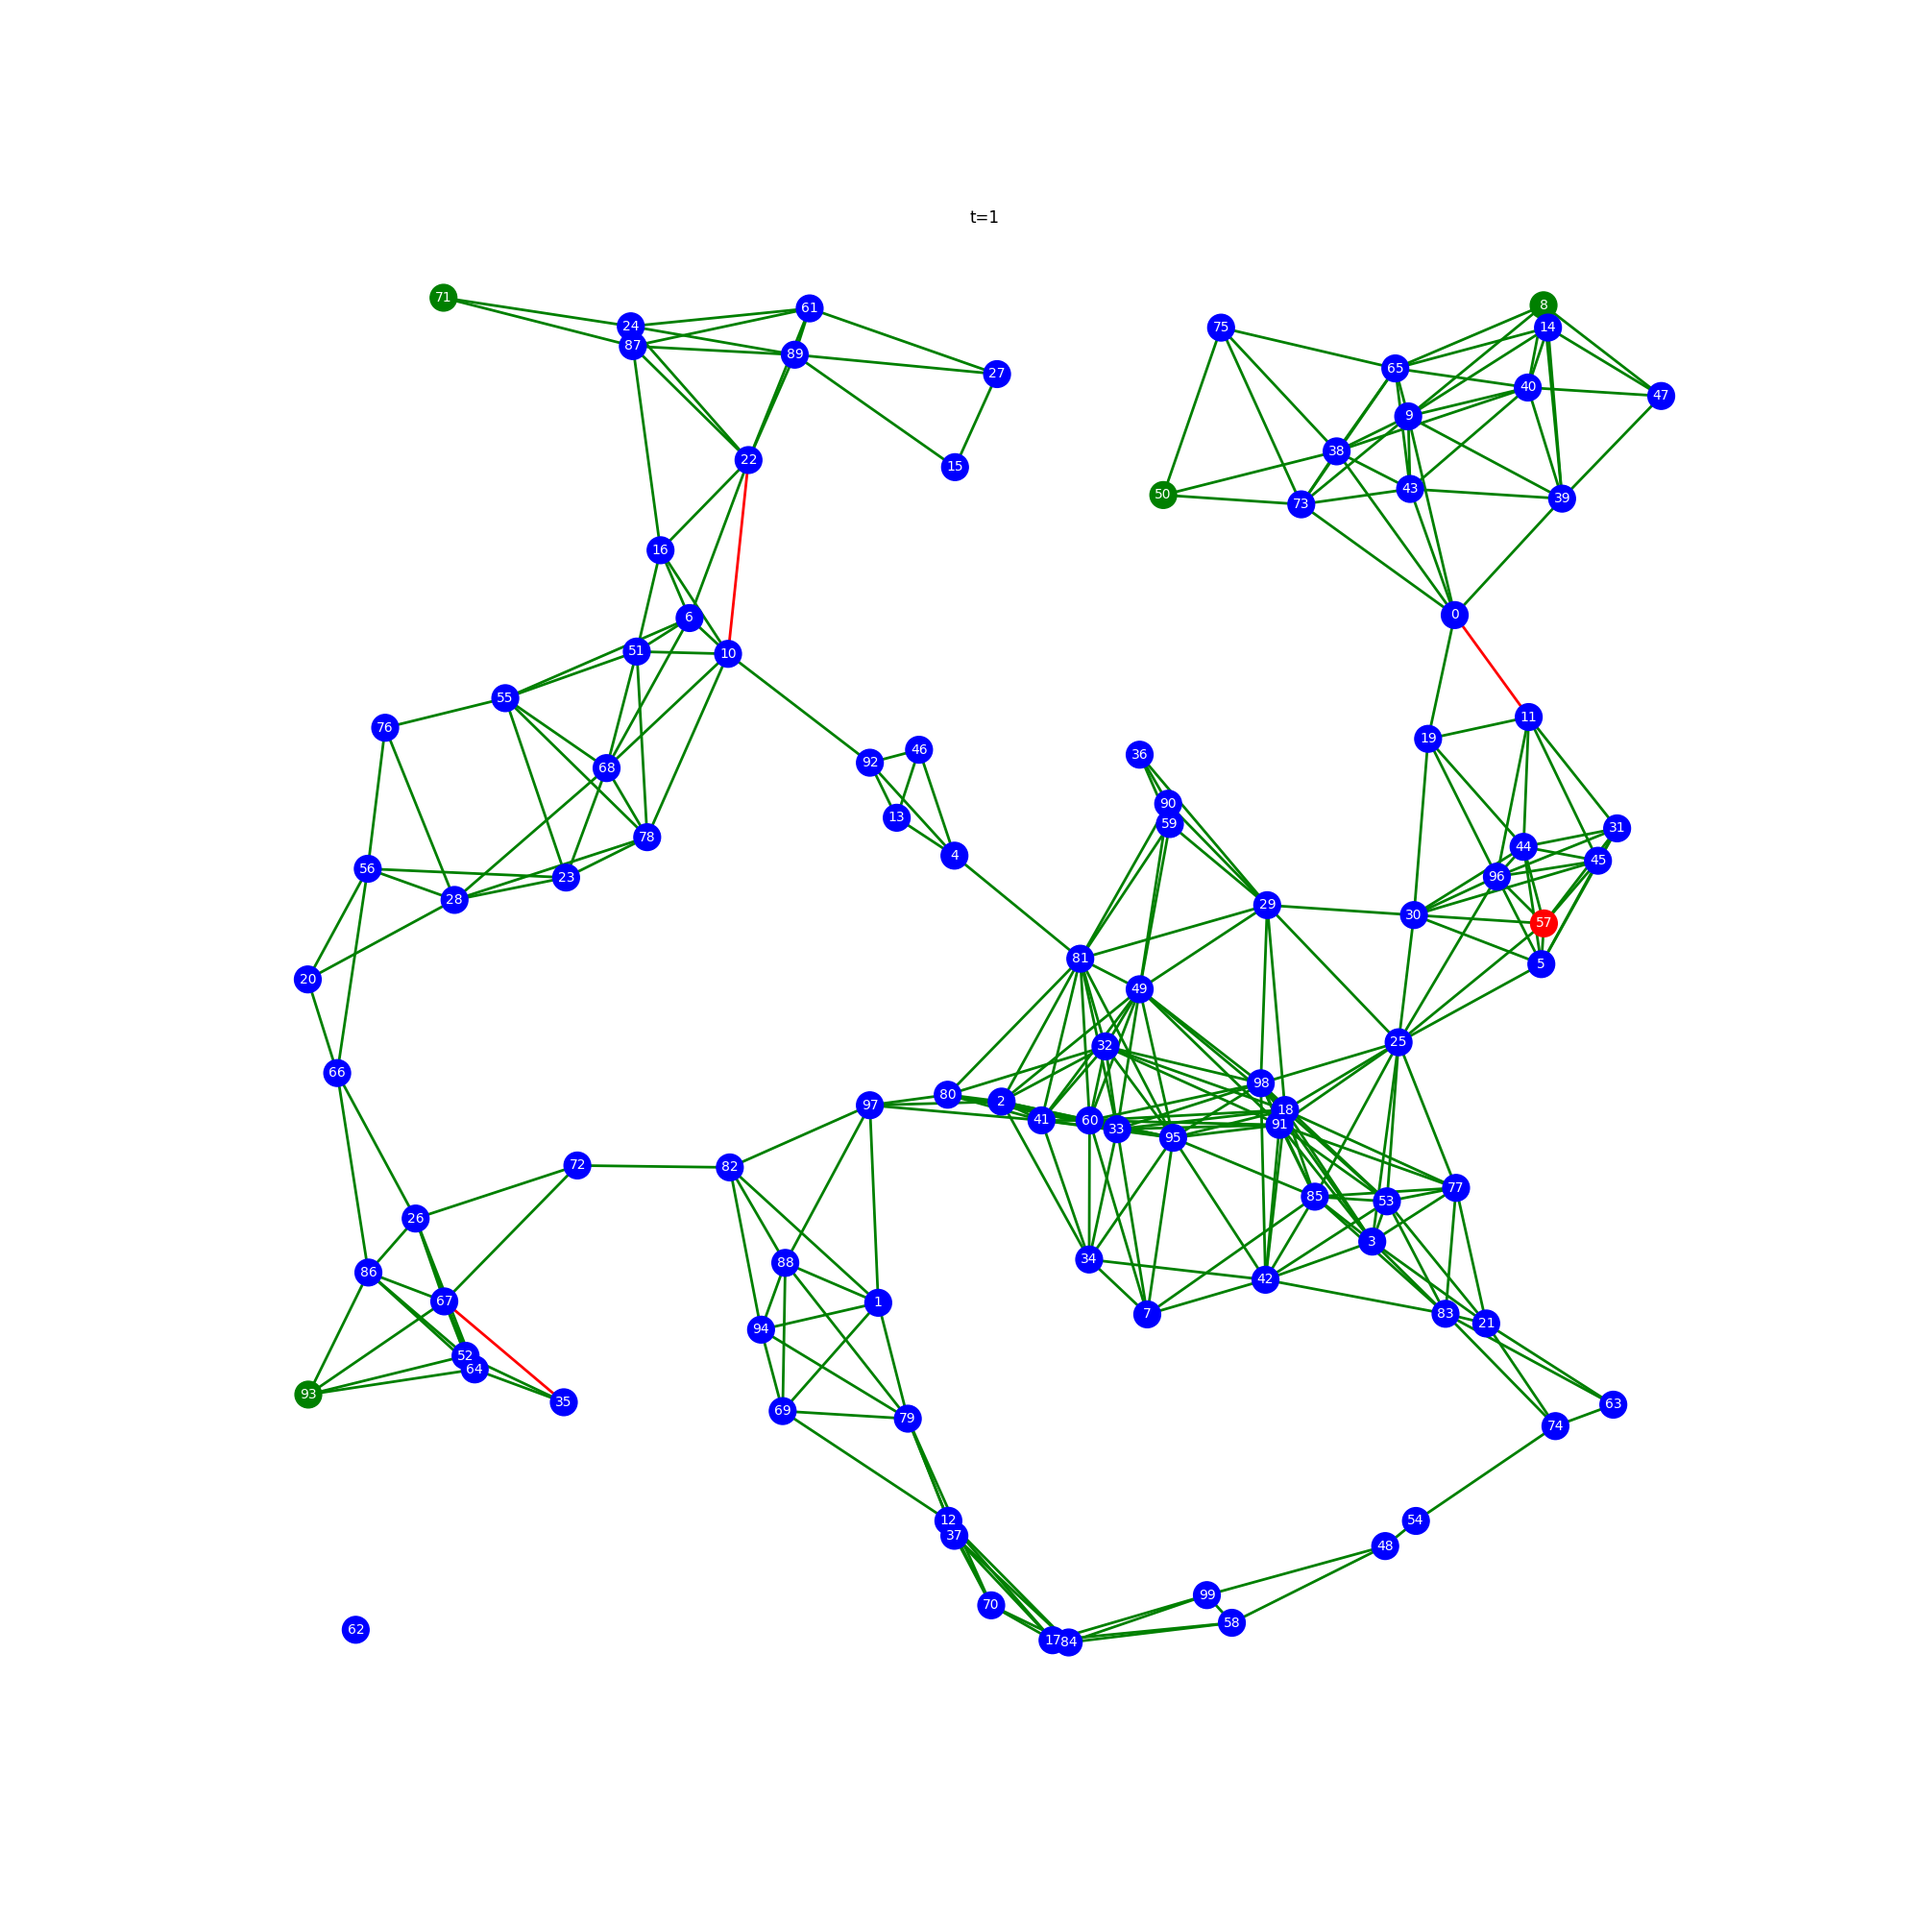
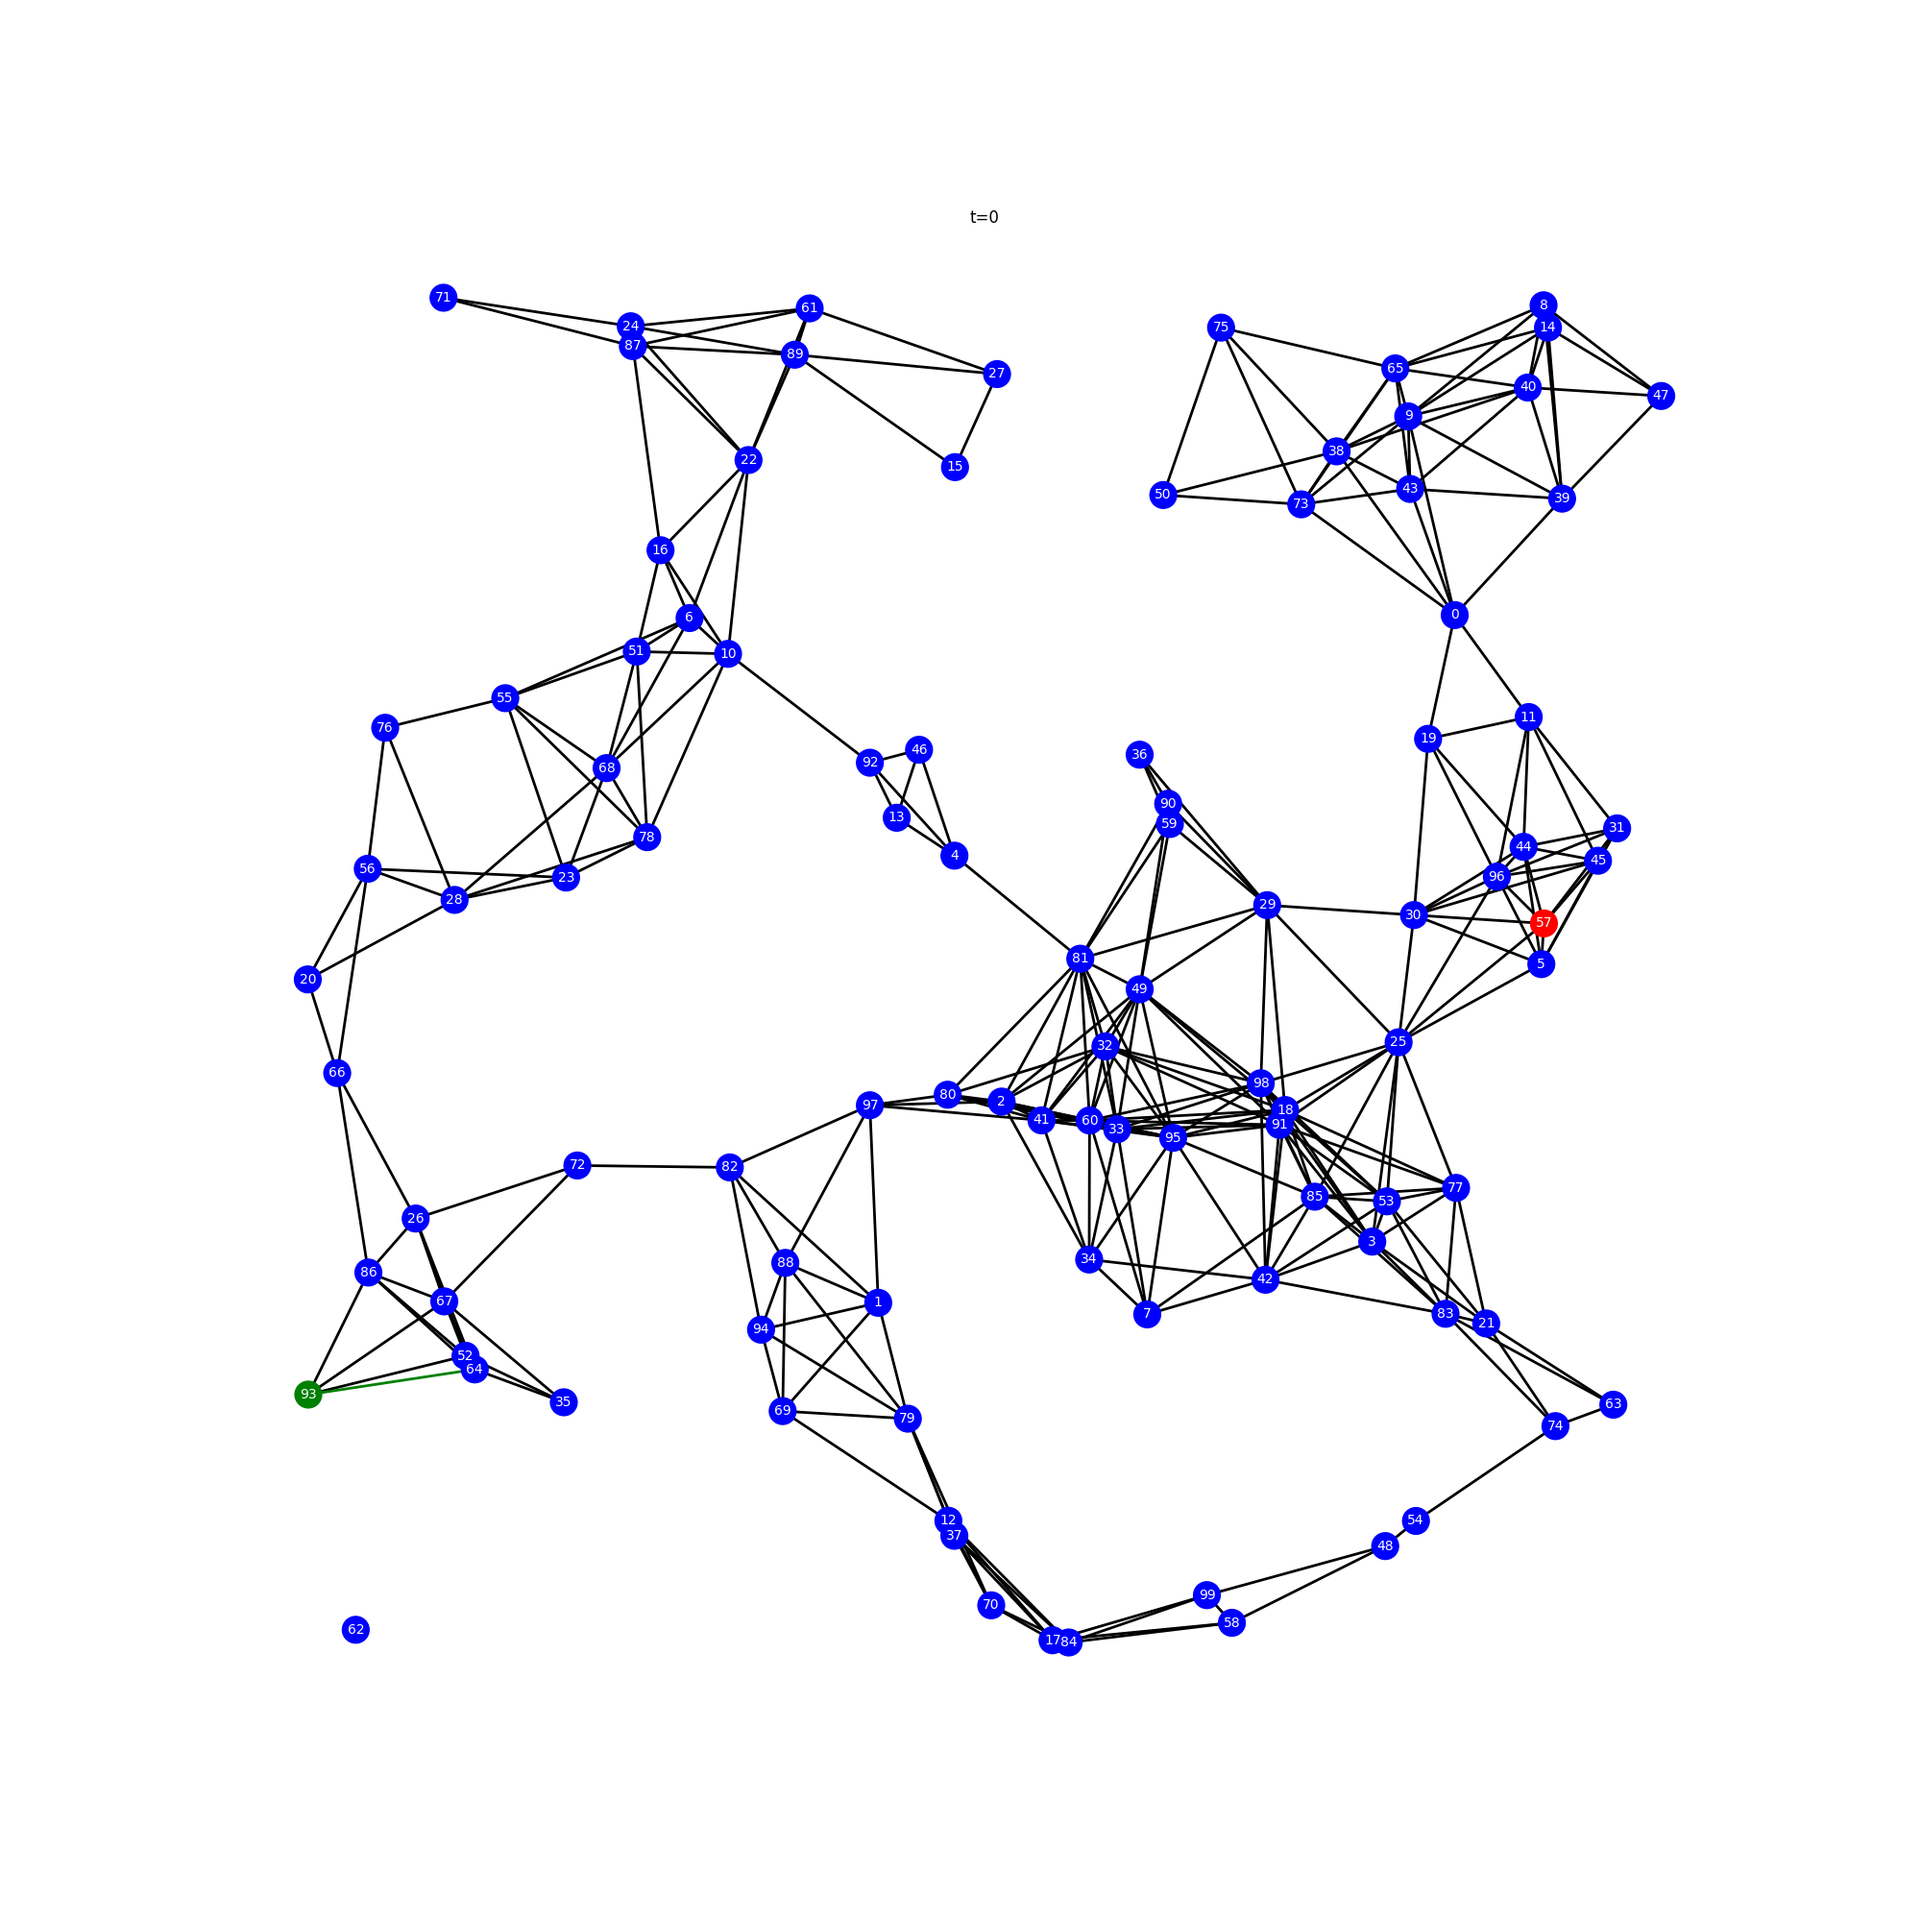
次回，コンテンツキャッシュ機能の実装予定

diff --git a/Main.py b/Main.py
@@ -74,10 +74,14 @@ def get_eges_color(edges, edges_communication):
   edges_color = []
 
   for edge_from, edge_to in edges:
-    color = "green"
-    for edge_c_from, edge_c_to in edges_communication:
+    color = "black"
+    for edge_c_from, edge_c_to, packet_type in edges_communication:
       if edge_from is edge_c_from and edge_to is edge_c_to:
-        color = "red"
+        if packet_type == "<class 'con.packet.interest_packet'>":
+          color = "green"
+        else:
+          color = "red"
+
     edges_color.append(color)
 
   return edges_color
@@ -99,19 +103,19 @@ def main():
   have_content_node = random.randint(0, MAX_NODES)
   nodes[have_content_node].content_store.append(content(content_id="www.google.com/logo.png", data_size=10000))
   want_content_node = random.randint(0, MAX_NODES)
-  nodes[want_content_node].set_packet("www.google.com/logo.png", nodes[have_content_node].position)
-  nodes[want_content_node].request_content_id = "www.google.com/logo.png"
-  want_content_node = 50
-  nodes[want_content_node].set_packet("www.google.com/logo.png", nodes[have_content_node].position)
-  nodes[want_content_node].request_content_id = "www.google.com/logo.png"
-  want_content_node = 71
-  nodes[want_content_node].set_packet("www.google.com/logo.png", nodes[have_content_node].position)
-  nodes[want_content_node].request_content_id = "www.google.com/logo.png"
+  # nodes[want_content_node].set_packet("www.google.com/logo.png", nodes[have_content_node].position)
+  # nodes[want_content_node].request_content_id = "www.google.com/logo.png"
+  # want_content_node = 50
+  # nodes[want_content_node].set_packet("www.google.com/logo.png", nodes[have_content_node].position)
+  # nodes[want_content_node].request_content_id = "www.google.com/logo.png"
+  # want_content_node = 71
+  # nodes[want_content_node].set_packet("www.google.com/logo.png", nodes[have_content_node].position)
+  # nodes[want_content_node].request_content_id = "www.google.com/logo.png"
   want_content_node = 93
   nodes[want_content_node].set_packet("www.google.com/logo.png", nodes[have_content_node].position)
   nodes[want_content_node].request_content_id = "www.google.com/logo.png"
 
-  fig = plt.figure(figsize=(20, 20))
+  fig = plt.figure(figsize=(10, 10))
 
   def animate(i):
     plt.cla()
@@ -124,6 +128,10 @@ def main():
     G.add_edges_from(nodes_link)
 
     loop_count = node.que.qsize()
+    if loop_count == 0:
+      nodes[want_content_node].set_packet("www.google.com/logo.png", nodes[have_content_node].position)
+      nodes[want_content_node].request_content_id = "www.google.com/logo.png"
+      loop_count = node.que.qsize()
 
     edges_communication = []
     for c in range(loop_count):
@@ -133,9 +141,10 @@ def main():
       for n in _node.select_next_node:
         print("Node{} → Node{}".format(_node.number, n.number))
         from_node, to_node = _node, n
+        type_packet = _node.packet_type
         if from_node.number > to_node.number:
           from_node, to_node = to_node, from_node
-        edges_communication.append((from_node, to_node))
+        edges_communication.append((from_node, to_node, type_packet))
 
     edges_color = get_eges_color(nodes_link, edges_communication)
 
@@ -144,13 +153,18 @@ def main():
     nx.draw_networkx_labels(G, nodes_position, nodes_name, font_size=10, font_color="white")
     plt.axis('off')
     plt.title("t=" + str(i))
+
     # グラフの保存
     # plt.savefig("Export/netork.png")
-    return
     # グラフの表示
-    # plt.show()
+    # plt.pause(0.001)
+    return
     # nodes_move(nodes)
 
+  # time = 0
+  # while(True):
+  #   animate(time)
+  #   time += 1
   # animate(0)
   # return
   anim = FuncAnimation(fig, animate, frames=t, interval=10, repeat=True)
@@ -159,6 +173,6 @@ def main():
 
 if __name__ == "__main__":
   fps = 30
-  t = 30
+  t = 100
   random.seed(0)
   main()

diff --git a/con/node.py b/con/node.py
@@ -63,6 +63,7 @@ class node:  # ノードの情報や処理
     self.mtu = 1200  # MTU: Maximum Transfer Unit default 1200[byte]
     self.received_node = None
     self.request_content_id = ""
+    self.packet_type = ""
 
   def connect_links(self, nodes):
     self.neighbor = []
@@ -207,6 +208,7 @@ class node:  # ノードの情報や処理
       node.que.put(sn)
     if flag_send_data_packet:
       node.que.put(self)
+    self.packet_type = str(type(self.packet))
     self.packet = None
     return
 
